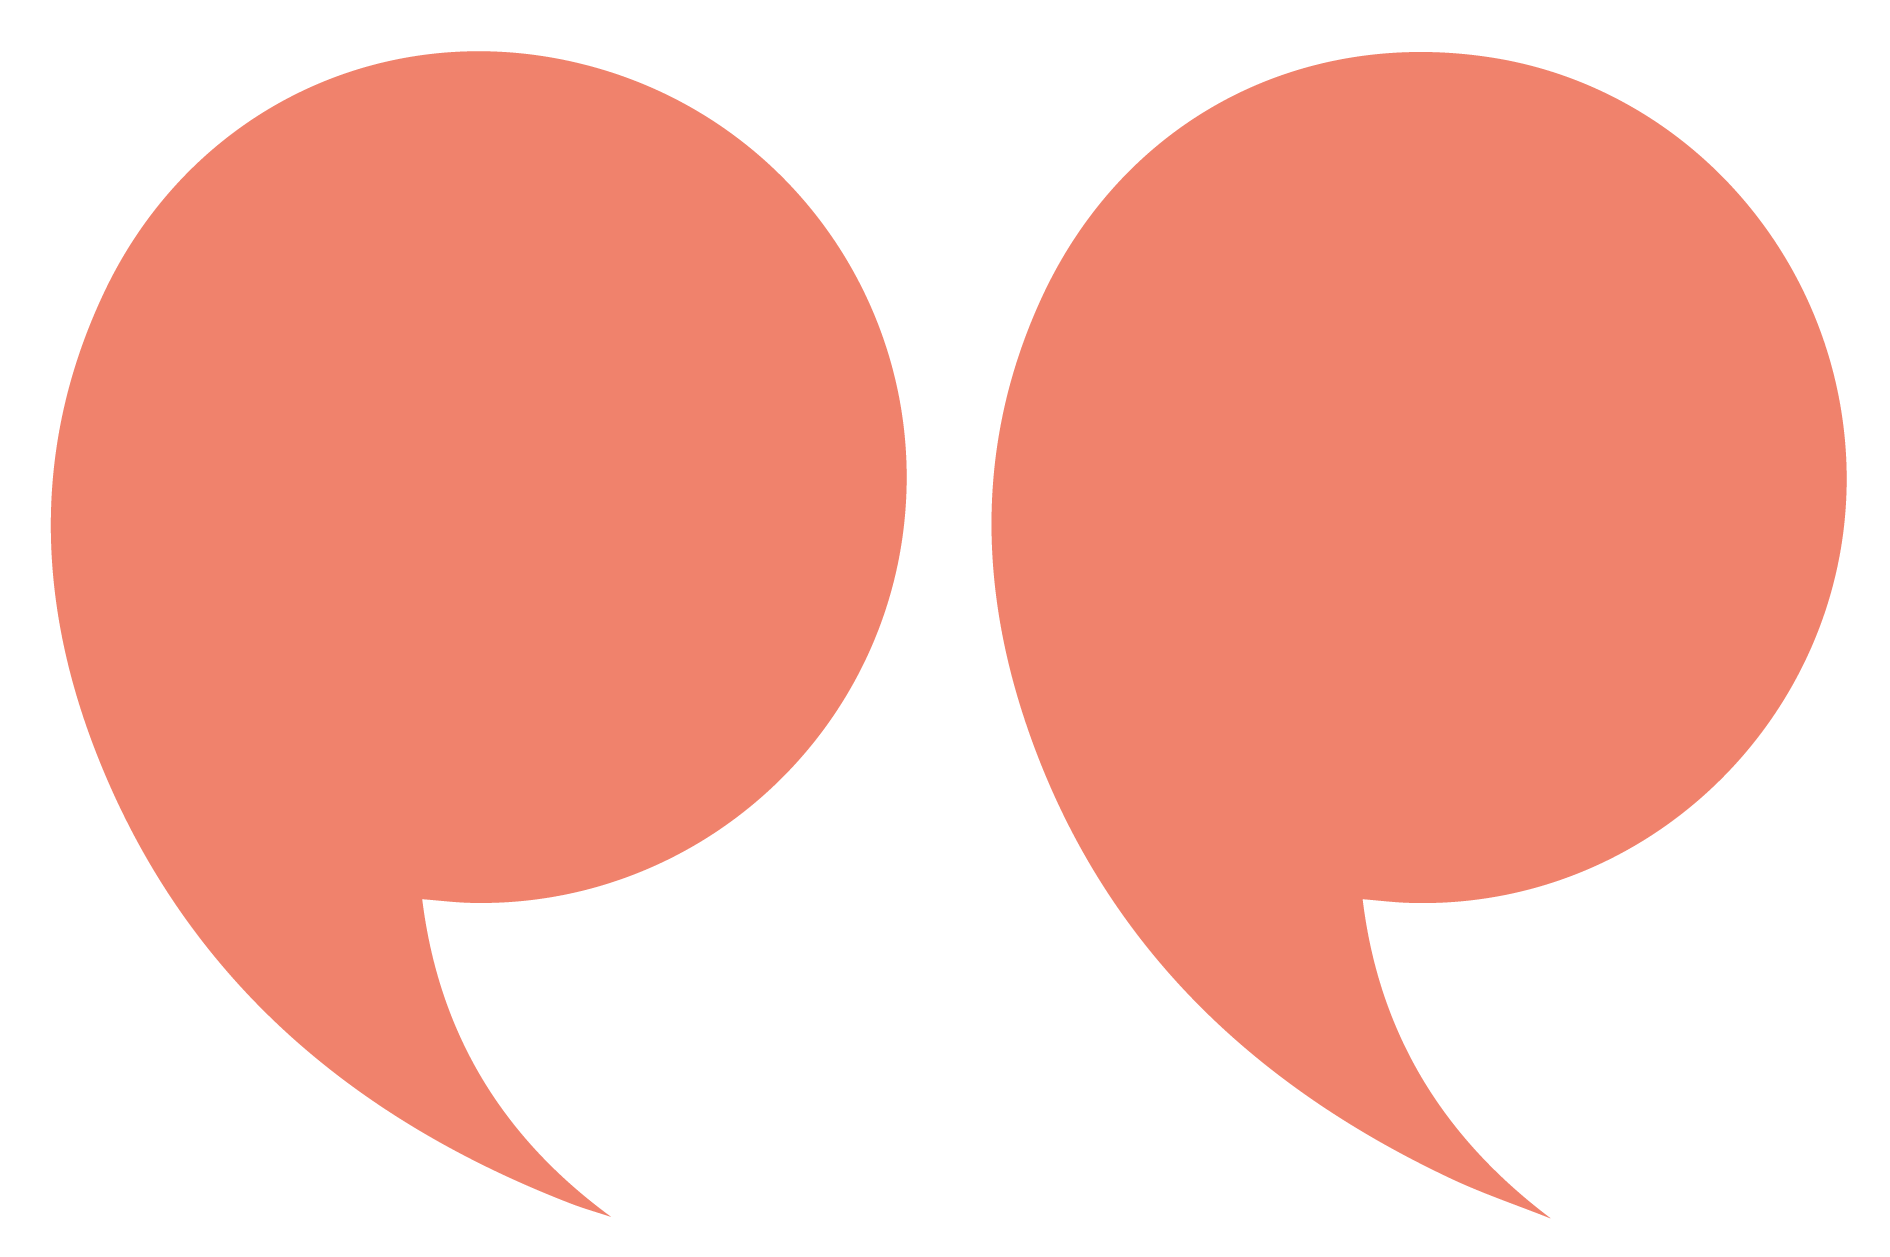
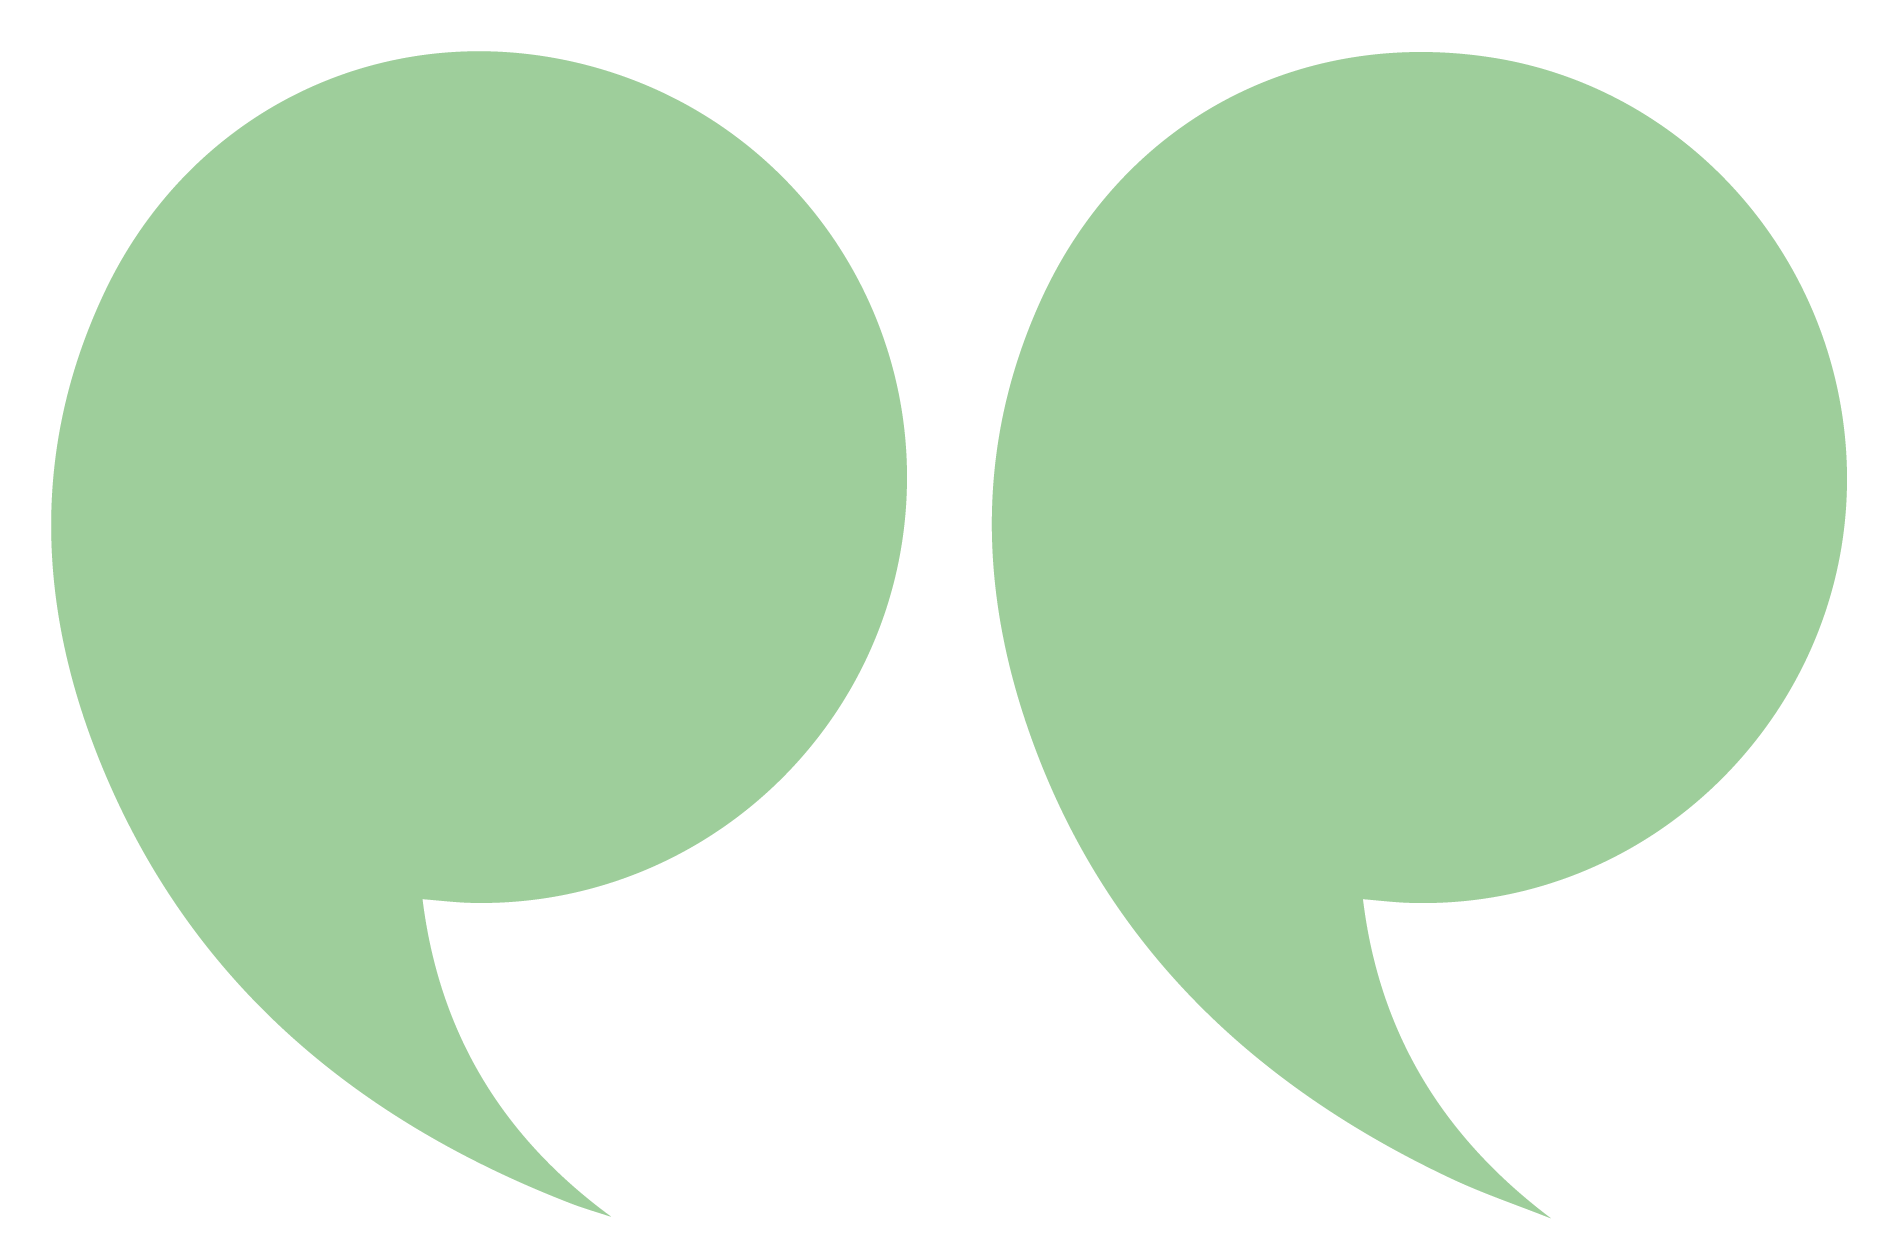
init

diff --git a/2_Evolution_de_l_emploi/2_1_Emploi_salarie/style/css/style.css b/2_Evolution_de_l_emploi/2_1_Emploi_salarie/style/css/style.css
@@ -6,10 +6,10 @@ body {
 hr {
   border: 0;
   height: 1px;
-  background-image: -webkit-linear-gradient(left, #f0f0f0, #f0836d, #f0f0f0);
-  background-image: -moz-linear-gradient(left, #f0f0f0, #f0836d, #f0f0f0);
-  background-image: -ms-linear-gradient(left, #f0f0f0, #f0836d, #f0f0f0);
-  background-image: -o-linear-gradient(left, #f0f0f0, #f0836d, #f0f0f0);
+  background-image: -webkit-linear-gradient(left, #f0f0f0, #9fce9c, #f0f0f0);
+  background-image: -moz-linear-gradient(left, #f0f0f0, #9fce9c, #f0f0f0);
+  background-image: -ms-linear-gradient(left, #f0f0f0, #9fce9c, #f0f0f0);
+  background-image: -o-linear-gradient(left, #f0f0f0, #9fce9c, #f0f0f0);
 }
 
 .quote {
@@ -29,14 +29,14 @@ hr {
   margin-right: 10px;
   text-align: center;
   font-weight: bolder;
-  color: #f0836d;
+  color: #9fce9c;
 }
 
 .subtitle {
   margin: 4px;
   text-align: center;
   font-style: italic;
-  color: #f0836d;
+  color: #9fce9c;
   font-size: 12px;
   line-height: 12px;
 }
@@ -50,7 +50,7 @@ hr {
   font-size: 12px;
   line-height: 27px;
   font-style: italic;
-  color: #f0836d;
+  color: #9fce9c;
   text-decoration: overline dotted;
 }
 .source:hover, .source a:hover {

diff --git a/2_Evolution_de_l_emploi/2_1_Emploi_salarie/index.html b/2_Evolution_de_l_emploi/2_1_Emploi_salarie/index.html
@@ -20,7 +20,7 @@
 
     <div id="emploi_salarie_cle">
       <div>
-        <h1>Taux d’évolution depuis le 4e trimestre 2019 : </h1>
+        <p class="title left">Taux d’évolution depuis le 4e trimestre 2019 : </p>
         <ul>
           <li>Paris : -2,1%</li>
           <li>MGP : -1,8%</li>
@@ -30,7 +30,7 @@
       </div>
 
       <div>
-        <h1>Taux d’évolution depuis le 2e trimestre 2020 :</h1>
+        <p class="title left">Taux d’évolution depuis le 2e trimestre 2020 :</p>
         <ul>
           <li>Paris : -2,1%</li>
           <li>MGP : -1,4%</li>

diff --git a/2_Evolution_de_l_emploi/2_1_Emploi_salarie/main.js b/2_Evolution_de_l_emploi/2_1_Emploi_salarie/main.js
@@ -1,5 +1,5 @@
 Highcharts.setOptions({
-    colors: ['#f0836d']
+    colors: ['#9fce9c']
 });
 
 
@@ -28,10 +28,12 @@ Highcharts.chart('graphique', {
               radius: 3,
               fillColor: '#FFFFFF',
               lineWidth: 2,
-              lineColor: null // inherit from series
+              lineColor: null // inherit from series,
+
             }
         }
     },
+
     yAxis: {
       gridLineColor: '#efefef',
       gridLineDashStyle: 'dash',

diff --git a/2_Evolution_de_l_emploi/2_1_Emploi_salarie/style/scss/style.scss b/2_Evolution_de_l_emploi/2_1_Emploi_salarie/style/scss/style.scss
@@ -3,7 +3,7 @@ body {
   font-size: 14px;
 }
 
-$Theme2: #f0836d;
+$Theme2: #9fce9c;
 $Apur: #00c3ff;
 
 hr {
